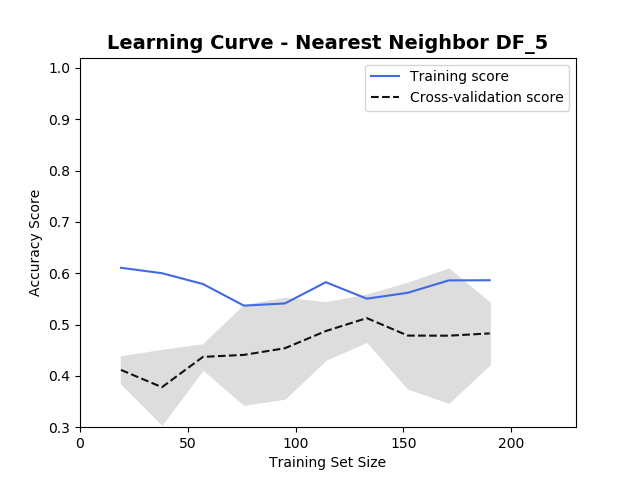
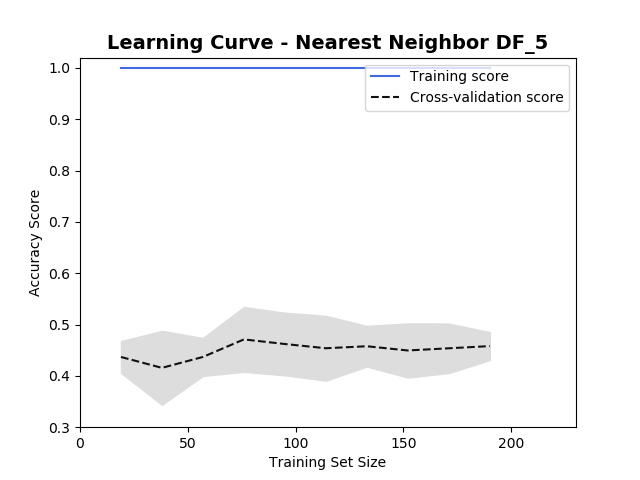
KNN - Scaling Data

diff --git a/ml_model_build_nearest_neighbor/nearest_neighbor_model_build.py b/ml_model_build_nearest_neighbor/nearest_neighbor_model_build.py
@@ -17,6 +17,7 @@ sys.path.append(dirname(realpath(__file__)) + sep + pardir + sep)
 
 
 from ml_functions.ml_model_eval import pred_proba_plot, plot_cross_val_confusion_matrix, plot_learning_curve
+from ml_functions.data_processing import scale_df
 import pickle
 import numpy as np
 import matplotlib.pyplot as plt
@@ -39,6 +40,11 @@ with open('../2019_prem_generated_clean/2019_prem_df_for_ml_5_v2.txt', 'rb') as 
 
 with open('../2019_prem_generated_clean/2019_prem_df_for_ml_10_v2.txt', 'rb') as myFile:
     df_ml_10 = pickle.load(myFile)
+
+
+#scaling dataframe to make all features to have zero mean and unit vector. This is essential as euclidean distance is used in the algorithm, therefore we wish to weight each feature equally.
+df_ml_10 = scale_df(df_ml_10, list(range(14)), [14,15,16])
+df_ml_5 = scale_df(df_ml_5, list(range(14)), [14,15,16])
 
 
 x_10 = df_ml_10.drop(['Fixture ID', 'Team Result Indicator', 'Opponent Result Indicator'], axis=1)
@@ -83,11 +89,11 @@ def k_nearest_neighbor_train(df, print_result=True, print_result_label=''):
 ml_10_knn, x10_train, x10_test, y10_train, y10_test = k_nearest_neighbor_train(df_ml_10, print_result_label='DF_ML_10')
 ml_5_knn, x5_train, x5_test, y5_train, y5_test = k_nearest_neighbor_train(df_ml_5, print_result_label='DF_ML_5')
 
-with open('ml_models/knn_model_5.pk1', 'wb') as myFile:
-    pickle.dump(ml_5_knn, myFile)
+#with open('ml_models/knn_model_5.pk1', 'wb') as myFile:
+#    pickle.dump(ml_5_knn, myFile)
 
-with open('ml_models/knn_model_10.pk1', 'wb') as myFile:
-    pickle.dump(ml_10_knn, myFile)
+#with open('ml_models/knn_model_10.pk1', 'wb') as myFile:
+#   pickle.dump(ml_10_knn, myFile)
 
 
 
@@ -128,13 +134,14 @@ print(confusion_matrix(y10_test, y_pred_ml5and10), '\n\n')
 
 # --------------- TESTING N_NEIGHBORS PARAM ---------------
 
+#the below code iterates over n neighbors, in the inner loop and i different train test splits in the outer loop. Increase the range of the outer loop to attain a more stable result
 
 test_accuracy_compiled = []
 for i in range(1, 2, 1):
     test_accuracy = []
     for n in range(1, 50, 1):
         x_train, x_test, y_train, y_test = train_test_split(x_10, y_10, test_size=0.2)
-        clf = KNeighborsClassifier(n_neighbors=n, weights='distance')
+        clf = KNeighborsClassifier(n_neighbors=n, weights='uniform')
         clf.fit(x_train, y_train)
         test_accuracy.append(round(clf.score(x_test, y_test) * 100, 1))
     test_accuracy_compiled.append(test_accuracy)
@@ -142,12 +149,12 @@ test_accuracy_compiled_np = np.transpose(np.array(test_accuracy_compiled))
 test_accuracy_compiled_av = np.mean(test_accuracy_compiled_np, axis=1)
 
 fig, ax = plt.subplots()
-ax.plot(range(1,50, 1), test_accuracy_compiled_av, label='Weights = Distance')
+ax.plot(range(1,50, 1), test_accuracy_compiled_av, label='Weights = Uniform')
 ax.set_xlabel('n_neighbors') 
 ax.set_ylabel('Accuracy Score %') 
 ax.set_title('Testing k values ml_10', y=1, fontsize=14, fontweight='bold');
 ax.legend(loc=4)
-#plt.savefig('figures\ml_10_testing_k_values_distance.png')
+#plt.savefig('figures\ml_10_testing_k_values_uniform.png')
 
 
 #---------- MODEL EVALUATION ----------
@@ -163,27 +170,27 @@ print('Cross-Validation Accuracy Score ML5: ', cv_score_av, '%\n')
 
 
 #prediction probability plots
-#fig = pred_proba_plot(ml_10_knn, x_10, y_10, no_iter=50, no_bins=18, x_min=0.3, classifier='Nearest Neighbor (ml_10)')
+fig = pred_proba_plot(ml_10_knn, x_10, y_10, no_iter=50, no_bins=18, x_min=0.3, classifier='Nearest Neighbor (ml_10)')
 #fig.savefig('figures/ml_10_nearest_neighbor_pred_proba.png')
 
-#fig = pred_proba_plot(ml_5_knn, x_5, y_5, no_iter=50, no_bins=18, x_min=0.3, classifier='Nearest Neighbor (ml_5)')
+fig = pred_proba_plot(ml_5_knn, x_5, y_5, no_iter=50, no_bins=18, x_min=0.3, classifier='Nearest Neighbor (ml_5)')
 #fig.savefig('figures/ml_5_nearest_neighbor_pred_proba.png')
 
 
 #plot confusion matrix - modified to take cross-val results.
 plot_cross_val_confusion_matrix(ml_10_knn, x_10, y_10, display_labels=('team loses', 'draw', 'team wins'), title='Nearest Neighbor Confusion Matrix ML10', cv=skf)
-plt.savefig('figures\ml_10_confusion_matrix_cross_val_nearest_neighbor.png')
+#plt.savefig('figures\ml_10_confusion_matrix_cross_val_nearest_neighbor.png')
 
 plot_cross_val_confusion_matrix(ml_5_knn, x_5, y_5, display_labels=('team loses', 'draw', 'team wins'), title='Nearest Neighbor Confusion Matrix ML5', cv=skf)
-plt.savefig('figures\ml_5_confusion_matrix_cross_val_nearest_neighbor.png')
+#plt.savefig('figures\ml_5_confusion_matrix_cross_val_nearest_neighbor.png')
 
 
 #plotting learning curves
 plot_learning_curve(ml_10_knn, x_10, y_10, training_set_size=10, x_max=160, title='Learning Curve - Nearest Neighbor DF_10', leg_loc=1)
-plt.savefig('figures\ml_10_nearest_neighbor_learning_curve.png')
+#plt.savefig('figures\ml_10_nearest_neighbor_learning_curve.png')
 
 plot_learning_curve(ml_5_knn, x_5, y_5, training_set_size=10, x_max=230, title='Learning Curve - Nearest Neighbor DF_5', leg_loc=1)
-plt.savefig('figures\ml_5_nearest_neighbor_learning_curve.png')
+#plt.savefig('figures\ml_5_nearest_neighbor_learning_curve.png')
 
 
     

diff --git a/ml_functions/ml_model_eval.py b/ml_functions/ml_model_eval.py
@@ -73,7 +73,7 @@ def pred_proba_plot(clf, X, y, cv=5, no_iter=5, no_bins=25, x_min=0.5, x_max=1, 
     ax.hist(incorrect_guess_pred, bins, alpha=0.5, edgecolor='#1E212A', color='red', label='Incorrect Prediction')
     ax.hist(correct_guess_pred, bins, alpha=0.5, edgecolor='#1E212A', color='green', label='Correct Prediction')
     ax.legend()
-    ax.set_title(f'{classifier} - Iterated {no_iter} Times', y=0.96, fontsize=16, fontweight='bold');
+    ax.set_title(f'{classifier} - Iterated {no_iter} Times', y=1, fontsize=16, fontweight='bold');
     ax.set(ylabel='Number of Occurences',
             xlabel='Prediction Probability')
     return fig
